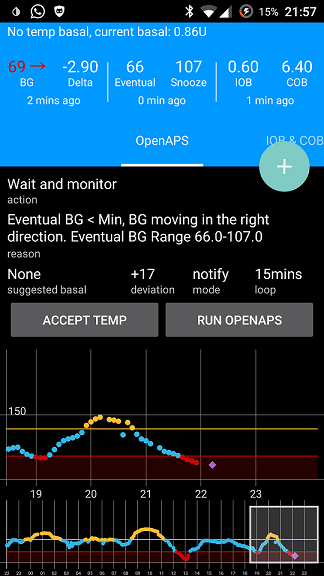
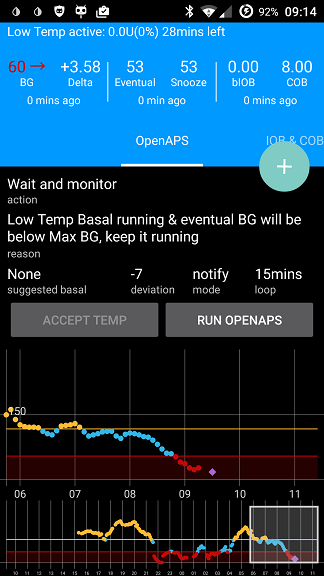
auto dissmiss old alerts, bolus wizard to 0 for negative suggestions

diff --git a/app/src/main/java/com/hypodiabetic/happ/MainActivity.java b/app/src/main/java/com/hypodiabetic/happ/MainActivity.java
@@ -595,6 +595,7 @@ public class MainActivity extends android.support.v4.app.FragmentActivity {
         public static void setSuggested_Temp_Basal(JSONObject openAPSSuggest, Context c){
             try {
                 Suggested_Temp_Basal = new TempBasal();
+                Notifications.clear(MainActivity.activity);                                         //Clears any open notifications
                 if (openAPSSuggest.has("rate")){                                                    //Temp Basal suggested
                     Suggested_Temp_Basal.rate               = openAPSSuggest.getDouble("rate");
                     Suggested_Temp_Basal.ratePercent        = openAPSSuggest.getInt("ratePercent");

diff --git a/app/src/main/java/com/hypodiabetic/happ/BolusWizard.java b/app/src/main/java/com/hypodiabetic/happ/BolusWizard.java
@@ -100,6 +100,7 @@ public class BolusWizard {
                 reply.put("insulin_correction_bg",      String.format("%.1f", insulin_correction_bg));
             }
             reply.put("insulin_correction_bg_maths",    insulin_correction_bg_maths);
+            if (suggested_bolus < 0) suggested_bolus=0D;
             reply.put("suggested_bolus",                String.format("%.1f", suggested_bolus));
             reply.put("suggested_bolus_maths",          suggested_bolus_maths);
         } catch (JSONException e) {

diff --git a/app/src/main/java/com/hypodiabetic/happ/Notifications.java b/app/src/main/java/com/hypodiabetic/happ/Notifications.java
@@ -75,4 +75,10 @@ public class Notifications {
                 .build();
         ((NotificationManager) c.getSystemService(Context.NOTIFICATION_SERVICE)).notify(56, notification);
     }
+
+    //Clear all notifications
+    public static void clear(Context context){
+        ((NotificationManager) context.getSystemService(Context.NOTIFICATION_SERVICE)).cancel(55);
+        ((NotificationManager) context.getSystemService(Context.NOTIFICATION_SERVICE)).cancel(56);
+    }
 }
